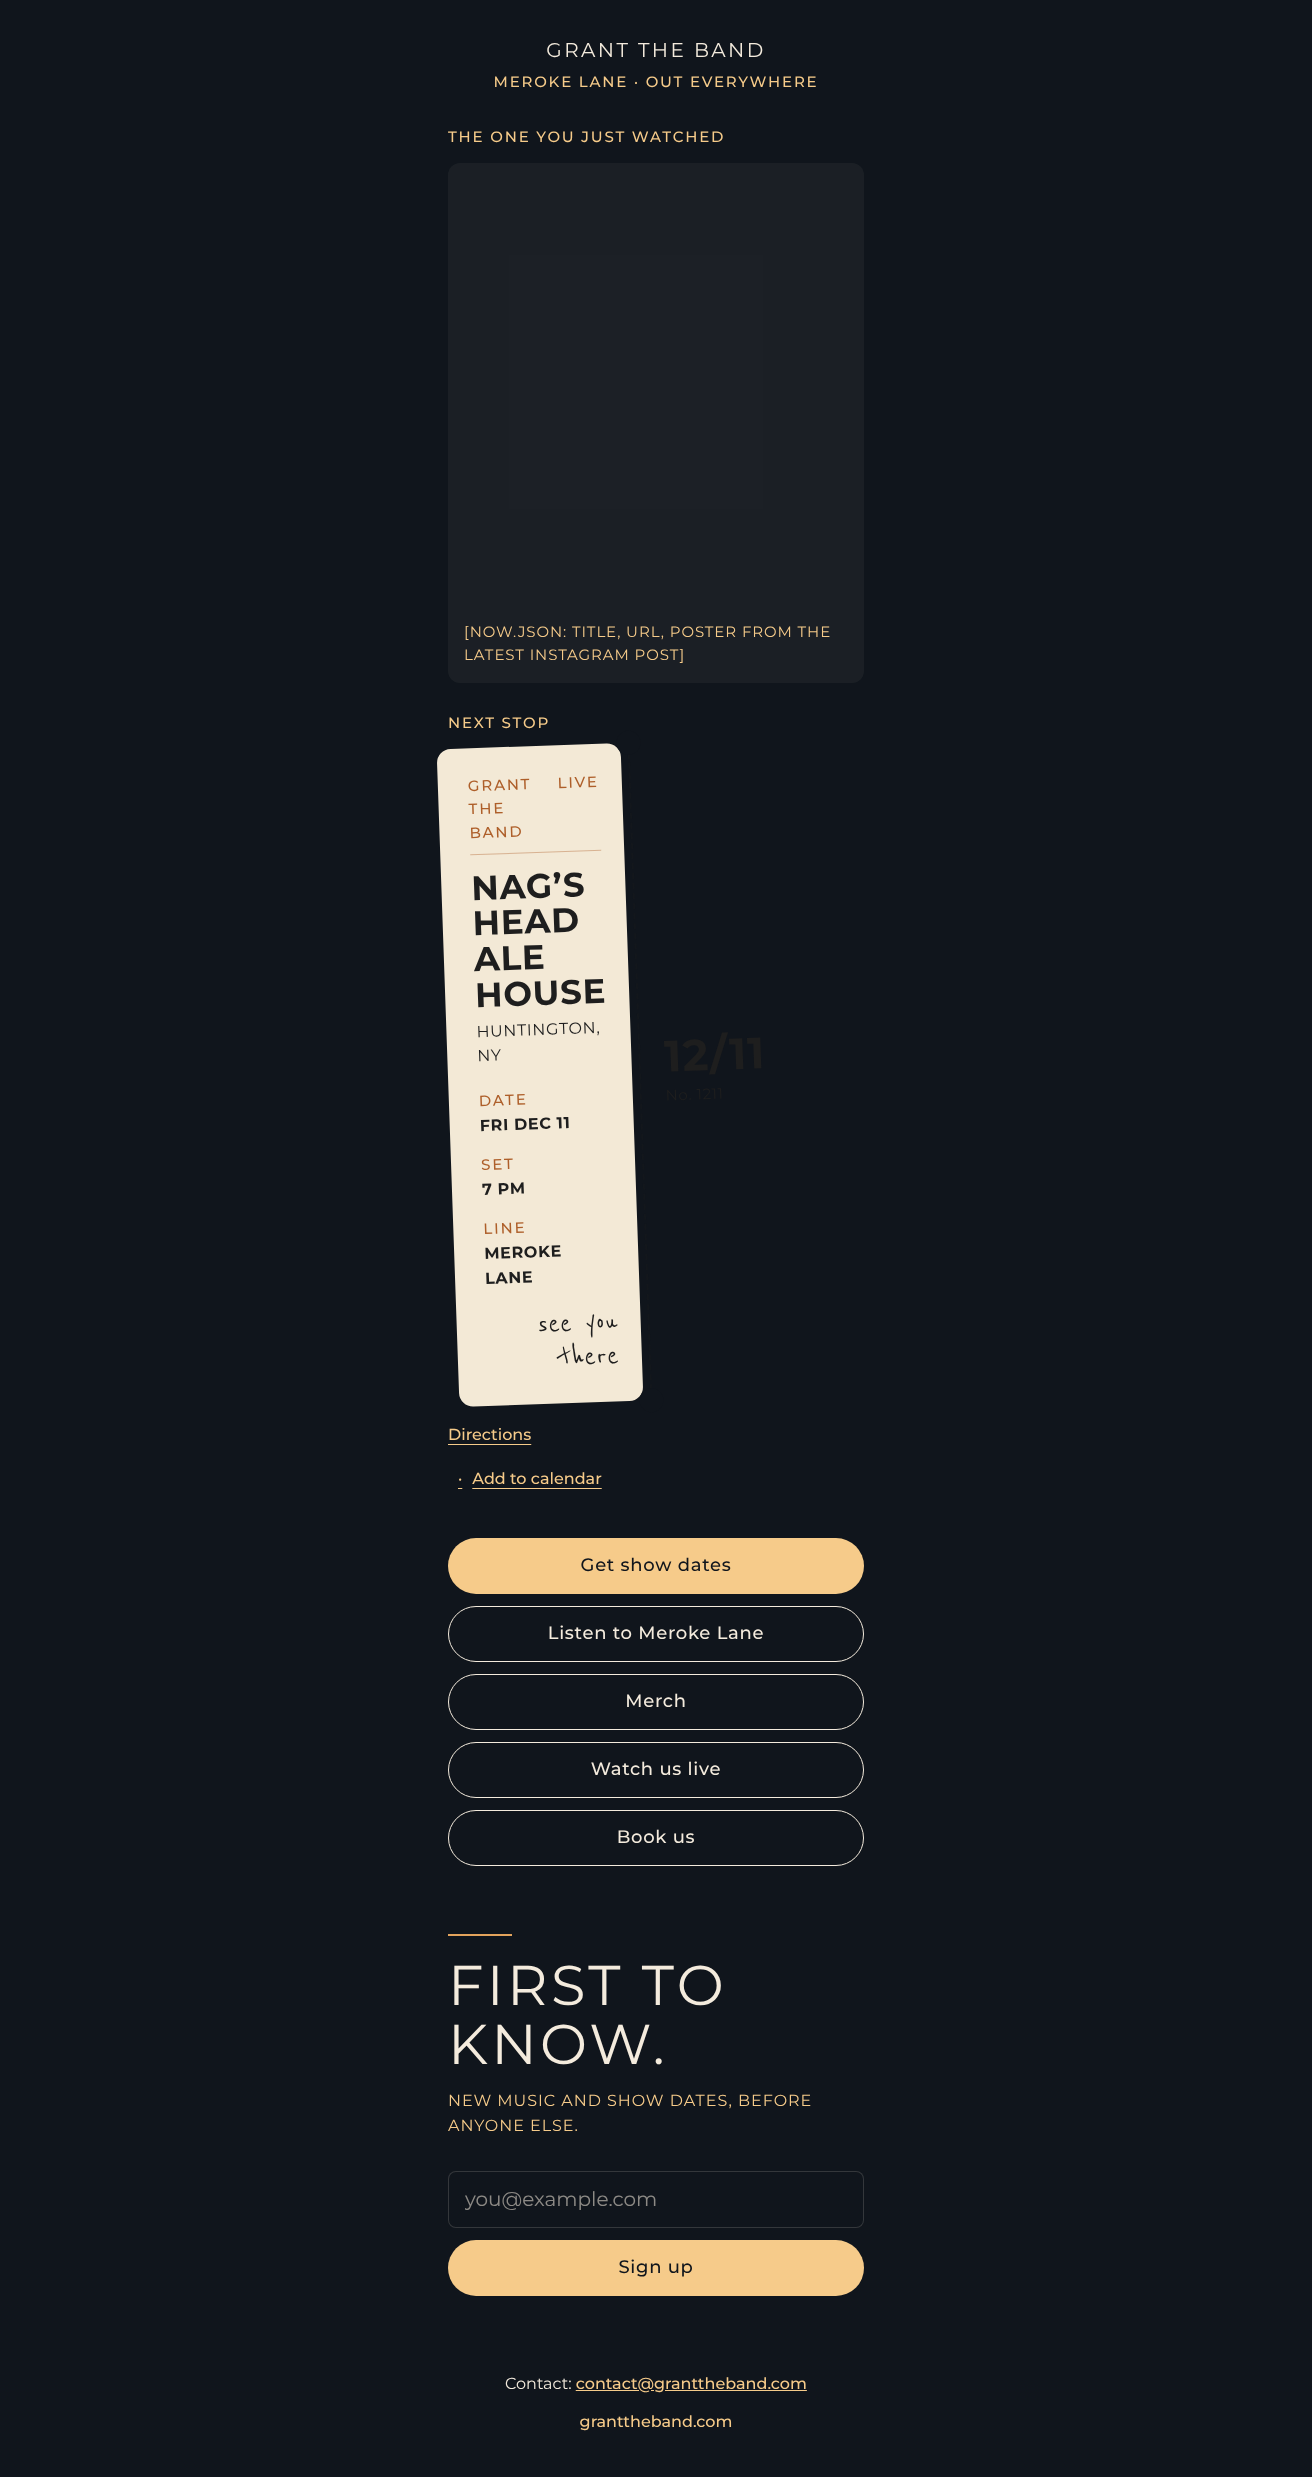
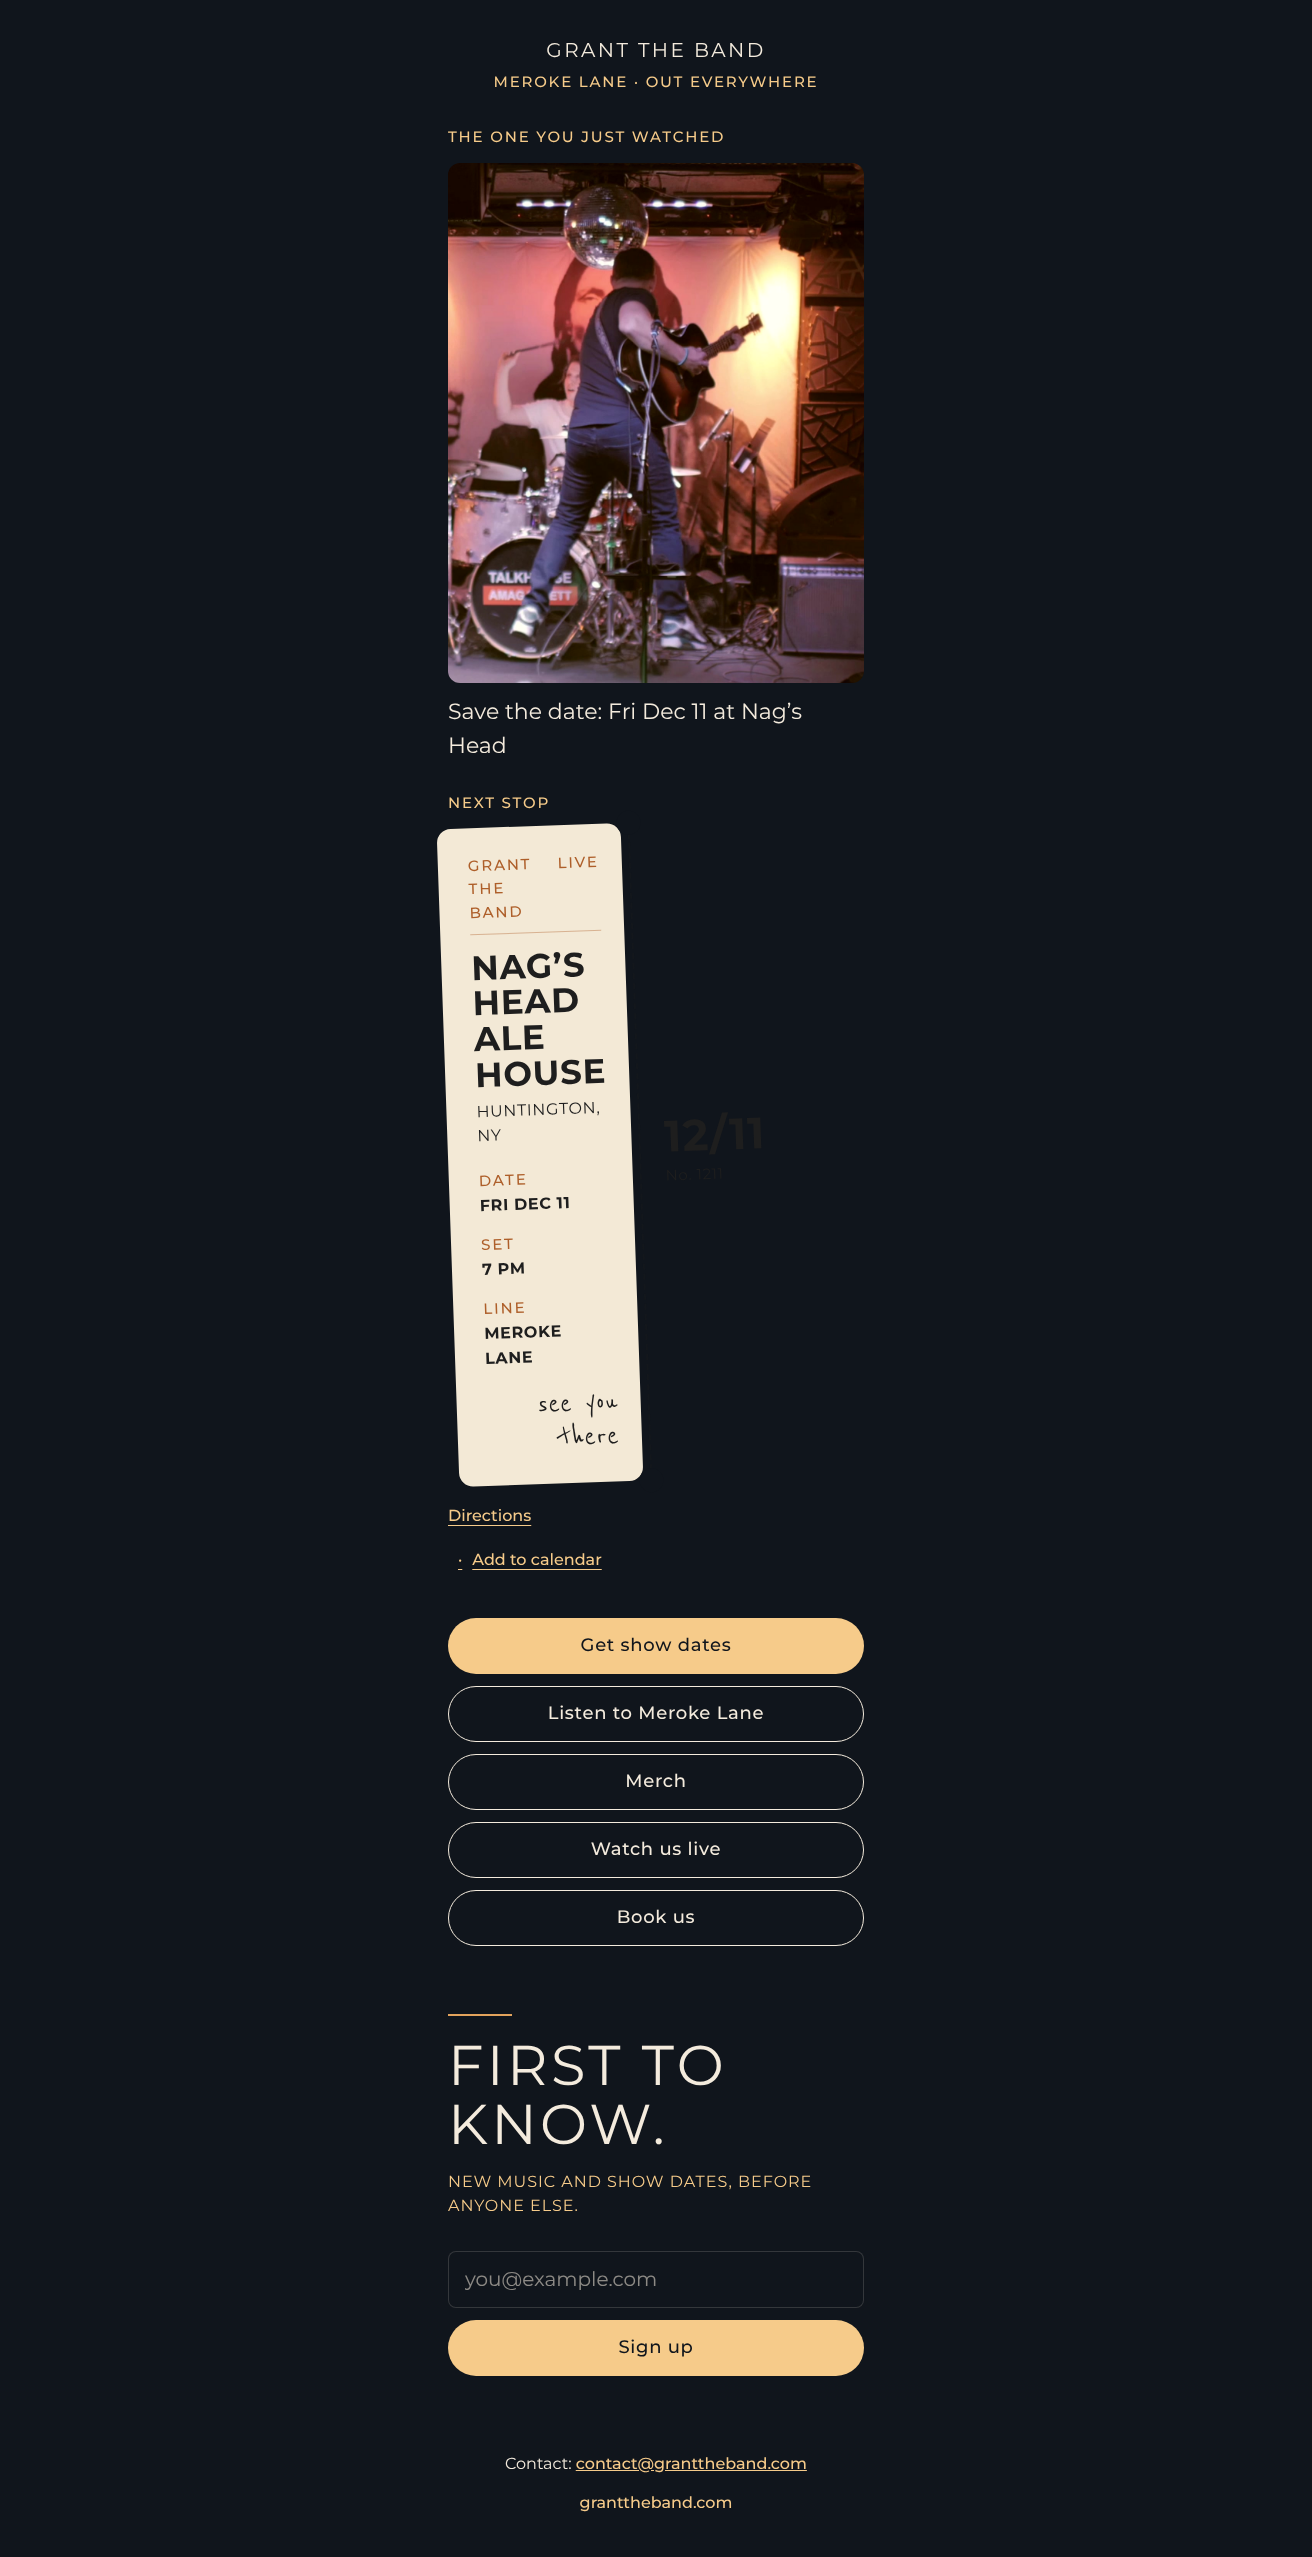
/now card: Save the date Reel (Fri Dec 11 at Nag’s Head)
- now.json: title, Reel URL, hero phone poster.
- Card poster: height:auto so the 4:5 frame holds (the height attribute
  stretched it), cropped 25% down so the jump stays in frame.
- CLAUDE.md: card crop; now.json and the hero song are no longer owed.

Claude-Session: https://claude.ai/code/session_01W6jjmem6fid2ThtCrqmyVk

diff --git a/CLAUDE.md b/CLAUDE.md
@@ -201,7 +201,7 @@ Not on home: venue list, press quote, booking teaser. Those live on `/book`.
 
 ## /now
 
-Single phone-width column: a visually hidden `<h1>GRANT the band</h1>`, wordmark, gold label "MEROKE LANE · OUT EVERYWHERE", top card from now.json ("The one you just watched"; omitted on production while now.json is empty), next show row, buttons "Get show dates" (primary), "Listen to Meroke Lane" (Spotify EP), "Merch" (`shopUrl`, with UTM), "Watch us live", "Book us". Footer "Contact: contact@granttheband.com" and "granttheband.com". Meta description: "GRANT the band. The latest clip, the next show, and where to listen." No "Long Island" and no "Better in the room" on /now. Add UTM params to outbound links (utm_source=instagram&utm_medium=bio).
+Single phone-width column: a visually hidden `<h1>GRANT the band</h1>`, wordmark, gold label "MEROKE LANE · OUT EVERYWHERE", top card from now.json ("The one you just watched"; poster in a 4:5 frame, taller posters cropped from 25% down so the jump stays in and the stage floor drops out; omitted on production while now.json is empty), next show row, buttons "Get show dates" (primary), "Listen to Meroke Lane" (Spotify EP), "Merch" (`shopUrl`, with UTM), "Watch us live", "Book us". Footer "Contact: contact@granttheband.com" and "granttheband.com". Meta description: "GRANT the band. The latest clip, the next show, and where to listen." No "Long Island" and no "Better in the room" on /now. Add UTM params to outbound links (utm_source=instagram&utm_medium=bio).
 
 ## Links
 
@@ -236,7 +236,7 @@ Single phone-width column: a visually hidden `<h1>GRANT the band</h1>`, wordmark
 
 ## Placeholders Noah still owes
 
-Logo SVG (the wordmark is still the type version), the hero song excerpt (`public/audio/hero-song.mp3`), `now.json` content, Search Console token, Cloudflare Web Analytics token. Labeled placeholders show on previews only.
+Logo SVG (the wordmark is still the type version), Search Console token, Cloudflare Web Analytics token. Labeled placeholders show on previews only.
 
 ## Production guard
 
